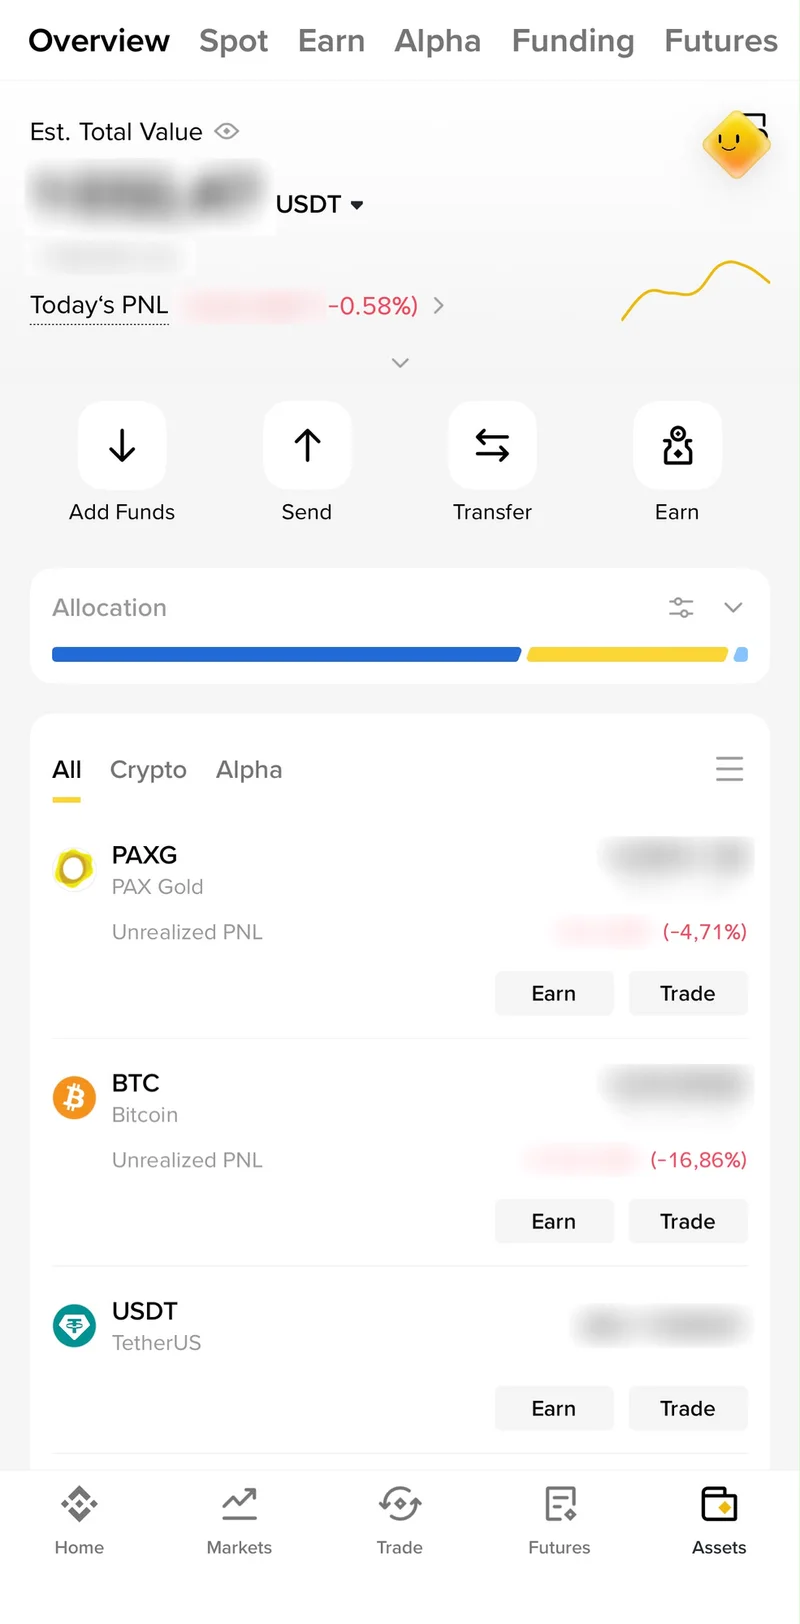
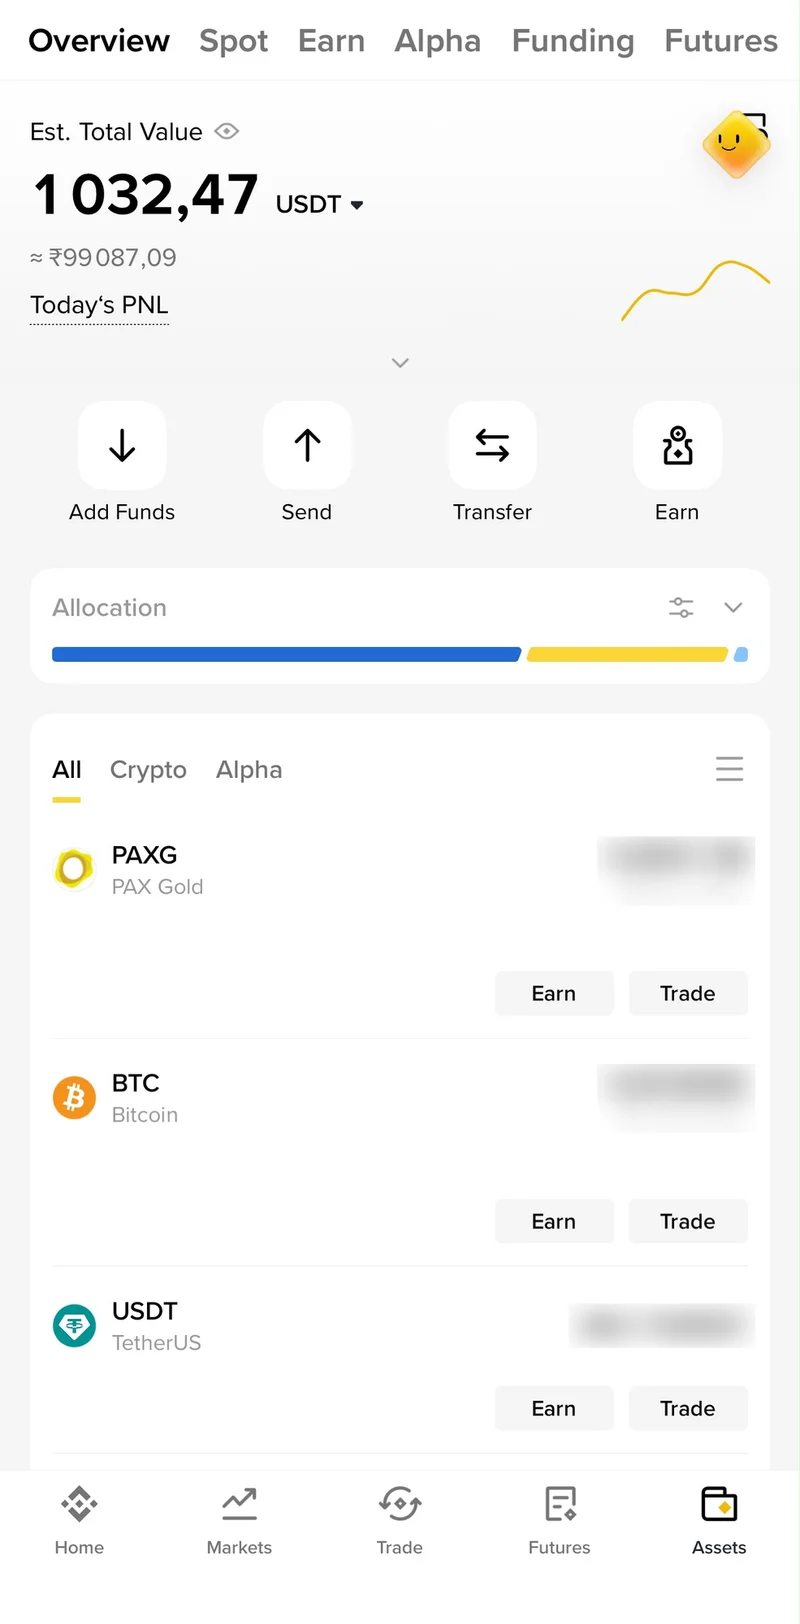
Portfolio screenshot: show total value, hide individual holdings and all P&L

diff --git a/assets/data.js b/assets/data.js
@@ -117,12 +117,12 @@ window.SITE_DATA = (function () {
       body: [
         'Through YEC, I help students explore financial literacy, investing and entrepreneurship in weekly two-hour sessions. We use learning materials, investment simulations and discussions to connect financial concepts with practical decisions.',
         'I want other students to have opportunities to explore money and enterprise early, ask questions and practise before facing real financial decisions. Part of my earnings from A&F helps fund the learning resources we use.'
-        ,'I also manage a small portfolio of my own, holding gold-backed PAX Gold, Bitcoin and USDT as a cash reserve. Some positions are currently down, which is part of the lesson: sticking to a plan and seeing why diversification matters in practice, not just in our sessions.'
+        ,'I also manage a small portfolio of my own, holding gold-backed PAX Gold, Bitcoin and USDT as a cash reserve. Managing real money has taught me to stick to a plan and why diversification matters in practice, not just in our sessions.'
       ],
       did: ['Planning and running the weekly sessions', 'Choosing resources: Coursera and edX (paid), Investopedia and simulators (free)', 'Pointing students to Forage virtual job simulations, which are practice tasks with a completion certificate'],
       links: [],
       media: [
-        { src: M + 'investing-portfolio.webp', w: 800, h: 1624, caption: 'My own investment portfolio, with balances and amounts blurred for privacy', shot: true },
+        { src: M + 'investing-portfolio.webp', w: 800, h: 1624, caption: 'My own investment portfolio: total value shown, individual holdings blurred for privacy', shot: true },
         { src: M + 'yec-intro.webp', w: 1600, h: 1200, caption: 'An early YEC session: an introduction to investing and trading' },
         { src: M + 'yec-session.webp', w: 1600, h: 1200, caption: 'A YEC session in progress' },
         { src: M + 'yec-session-2.webp', w: 1600, h: 1200, caption: 'Students presenting in a YEC session' },
